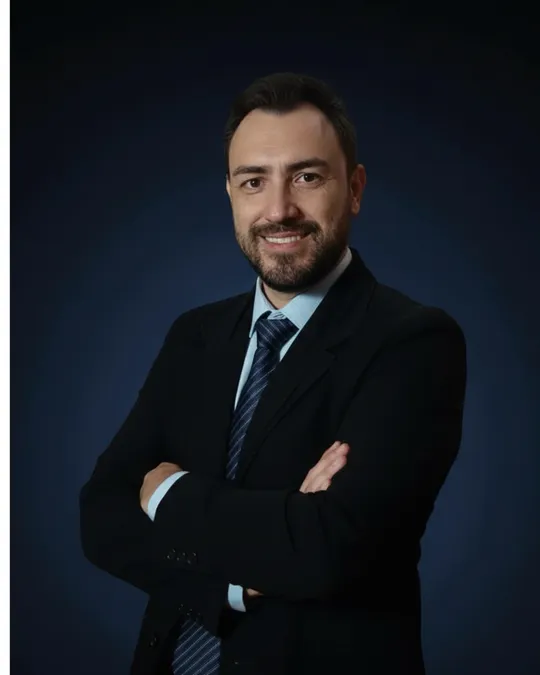
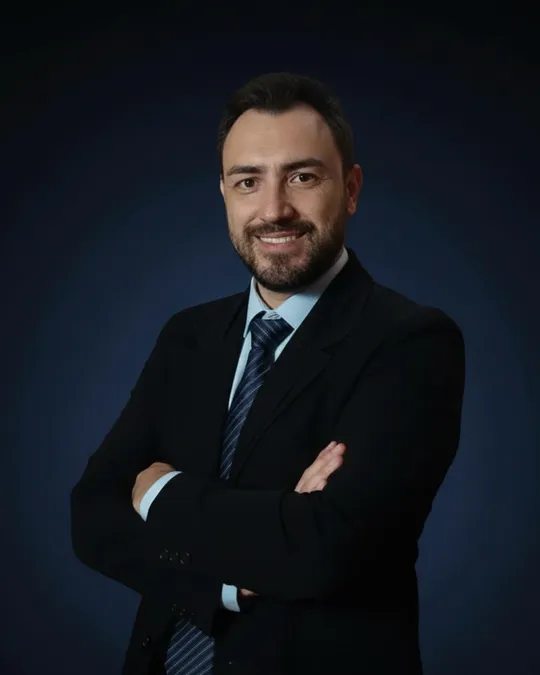
fix: texto sobre Vinicius (carreira empresarial com foco em saúde) e recorte da foto
Claude-Session: https://claude.ai/code/session_01MzTYFBFTEKhL92EJvg7gb2

diff --git a/index.html b/index.html
@@ -52,7 +52,7 @@
    "@id": "__SITE_URL__/#vinicius",
    "name": "Vinicius Aguirre",
    "jobTitle": "Fundador do Fisio no Marketing",
-   "description": "Fisioterapeuta de formação que atua com marketing, vendas e inteligência artificial para profissionais da saúde.",
+   "description": "Fisioterapeuta de formação, com carreira em atuação corporativa e empresarial e a saúde como maior área de expertise. Fundador da Antídoto Digital Company.",
    "image": "__SITE_URL__/media/vinicius-aguirre.webp"
   },
   {
@@ -89,7 +89,7 @@
      "name": "O que é o Fisio no Marketing?",
      "acceptedAnswer": {
       "@type": "Answer",
-      "text": "É um projeto de Vinicius Aguirre, fisioterapeuta de formação que atua com marketing, vendas e inteligência artificial, para ajudar fisioterapeutas e outros profissionais da saúde a organizar a base da própria clínica: identidade digital, uso profissional de IA, processos e decisões baseadas em números."
+      "text": "É um projeto de Vinicius Aguirre, fisioterapeuta de formação com carreira na atuação corporativa e empresarial, tendo a saúde como maior expertise, para ajudar fisioterapeutas e outros profissionais da saúde a organizar a base da própria clínica: identidade digital, uso profissional de IA, processos e decisões baseadas em números."
      }
     },
     {
@@ -237,7 +237,7 @@
   .creds { list-style: none; padding: 0; margin: 1.2rem 0 0; display: grid; gap: .5rem; }
   .creds li { color: var(--sc-ink); font-size: .95rem; padding-left: 1.4rem; position: relative; }
   .creds li::before { content: ""; position: absolute; left: 0; top: .55em; width: 8px; height: 8px; border-radius: 2px; background: var(--sc-accent); }
-  .motto { margin-top: 1.6rem; font: 600 1.05rem/1.4 var(--sc-font-text); color: var(--sc-ink); }
+  .about .motto { margin-top: 2rem; font: 600 1.05rem/1.4 var(--sc-font-text); color: var(--sc-ink); }
   .price--featured .price__tag { color: var(--sc-green); }
   .card.price .price__value { font-family: var(--sc-font-display); font-weight: 900; font-size: clamp(3.4rem, 6vw, 4.6rem); line-height: 1; color: var(--sc-ink); margin: 0; }
   .card.price .pay { margin: .7rem 0 0; color: var(--sc-ink-soft); font-size: .9rem; line-height: 1.45; }
@@ -363,7 +363,7 @@
         <a class="btn" href="https://chat.whatsapp.com/DnKK9Wzz9uB8QC72QYuBum" target="_blank" rel="noopener">Entrar na comunidade grátis</a>
         <a class="btn btn--ghost" href="#caminhos">Ver o Pacote Anual</a>
       </div>
-      <p class="trust">Por Vinicius Aguirre, fisioterapeuta de formação que atua com marketing, vendas e inteligência artificial. Não prometemos resultado financeiro: prometemos método, estrutura e companhia no caminho.</p>
+      <p class="trust">Por Vinicius Aguirre, fisioterapeuta de formação com carreira empresarial voltada à saúde. Não prometemos resultado financeiro: prometemos método, estrutura e companhia no caminho.</p>
     </div>
   </section>
 
@@ -504,7 +504,8 @@
       <div>
         <p class="role">Fundador e estrategista</p>
         <h2>Vinicius Aguirre</h2>
-        <p>Fisioterapeuta de formação, migrou para marketing, vendas e inteligência artificial depois de viver na prática a dor de sair da faculdade sabendo cuidar de pessoas, mas sem saber gerir uma empresa.</p>
+        <p>Fisioterapeuta de formação, construiu a carreira na atuação corporativa e empresarial, com a saúde como maior área de expertise. À frente da Antídoto Digital Company, atende diversos nichos, com foco maior em profissionais e negócios da área da saúde.</p>
+        <p>O Fisio no Marketing nasceu para levar esse conhecimento a quem sai da faculdade sabendo cuidar de pessoas, mas sem saber gerir uma empresa.</p>
         <ul class="creds">
           <li>Graduação em Fisioterapia</li>
           <li>MBA em Marketing Digital</li>
@@ -522,7 +523,7 @@
       <h2>Perguntas frequentes sobre o Fisio no Marketing</h2>
       <dl>
         <dt>O que é o Fisio no Marketing?</dt>
-        <dd>É um projeto de Vinicius Aguirre, fisioterapeuta de formação que atua com marketing, vendas e inteligência artificial, para ajudar fisioterapeutas e outros profissionais da saúde a organizar a base da própria clínica: identidade digital, uso profissional de IA, processos e decisões baseadas em números.</dd>
+        <dd>É um projeto de Vinicius Aguirre, fisioterapeuta de formação com carreira na atuação corporativa e empresarial, tendo a saúde como maior expertise, para ajudar fisioterapeutas e outros profissionais da saúde a organizar a base da própria clínica: identidade digital, uso profissional de IA, processos e decisões baseadas em números.</dd>
 
         <dt>A comunidade gratuita é realmente grátis?</dt>
         <dd>Sim. A comunidade no WhatsApp é gratuita e reúne prompts gratuitos, algumas aulas abertas e networking com outros profissionais da saúde que enfrentam as mesmas dificuldades. Basta entrar pelo link do grupo.</dd>

diff --git a/vite.config.js b/vite.config.js
@@ -17,7 +17,7 @@ export default defineConfig(({ mode }) => {
           this.emitFile({ type: 'asset', fileName: 'llms.txt', source: [
             '# Fisio no Marketing',
             '',
-            '> Projeto de Vinicius Aguirre (fisioterapeuta de formação que atua com marketing, vendas e IA) para ajudar fisioterapeutas e profissionais da saúde a organizar a base da clínica: site, uso profissional de IA, processos, dados e vendas.',
+            '> Projeto de Vinicius Aguirre (fisioterapeuta de formação, com carreira empresarial e a saúde como maior expertise) para ajudar fisioterapeutas e profissionais da saúde a organizar a base da clínica: site, uso profissional de IA, processos, dados e vendas.',
             '',
             '## Ofertas',
             '- Comunidade gratuita no WhatsApp: prompts gratuitos, algumas aulas abertas e networking.',
